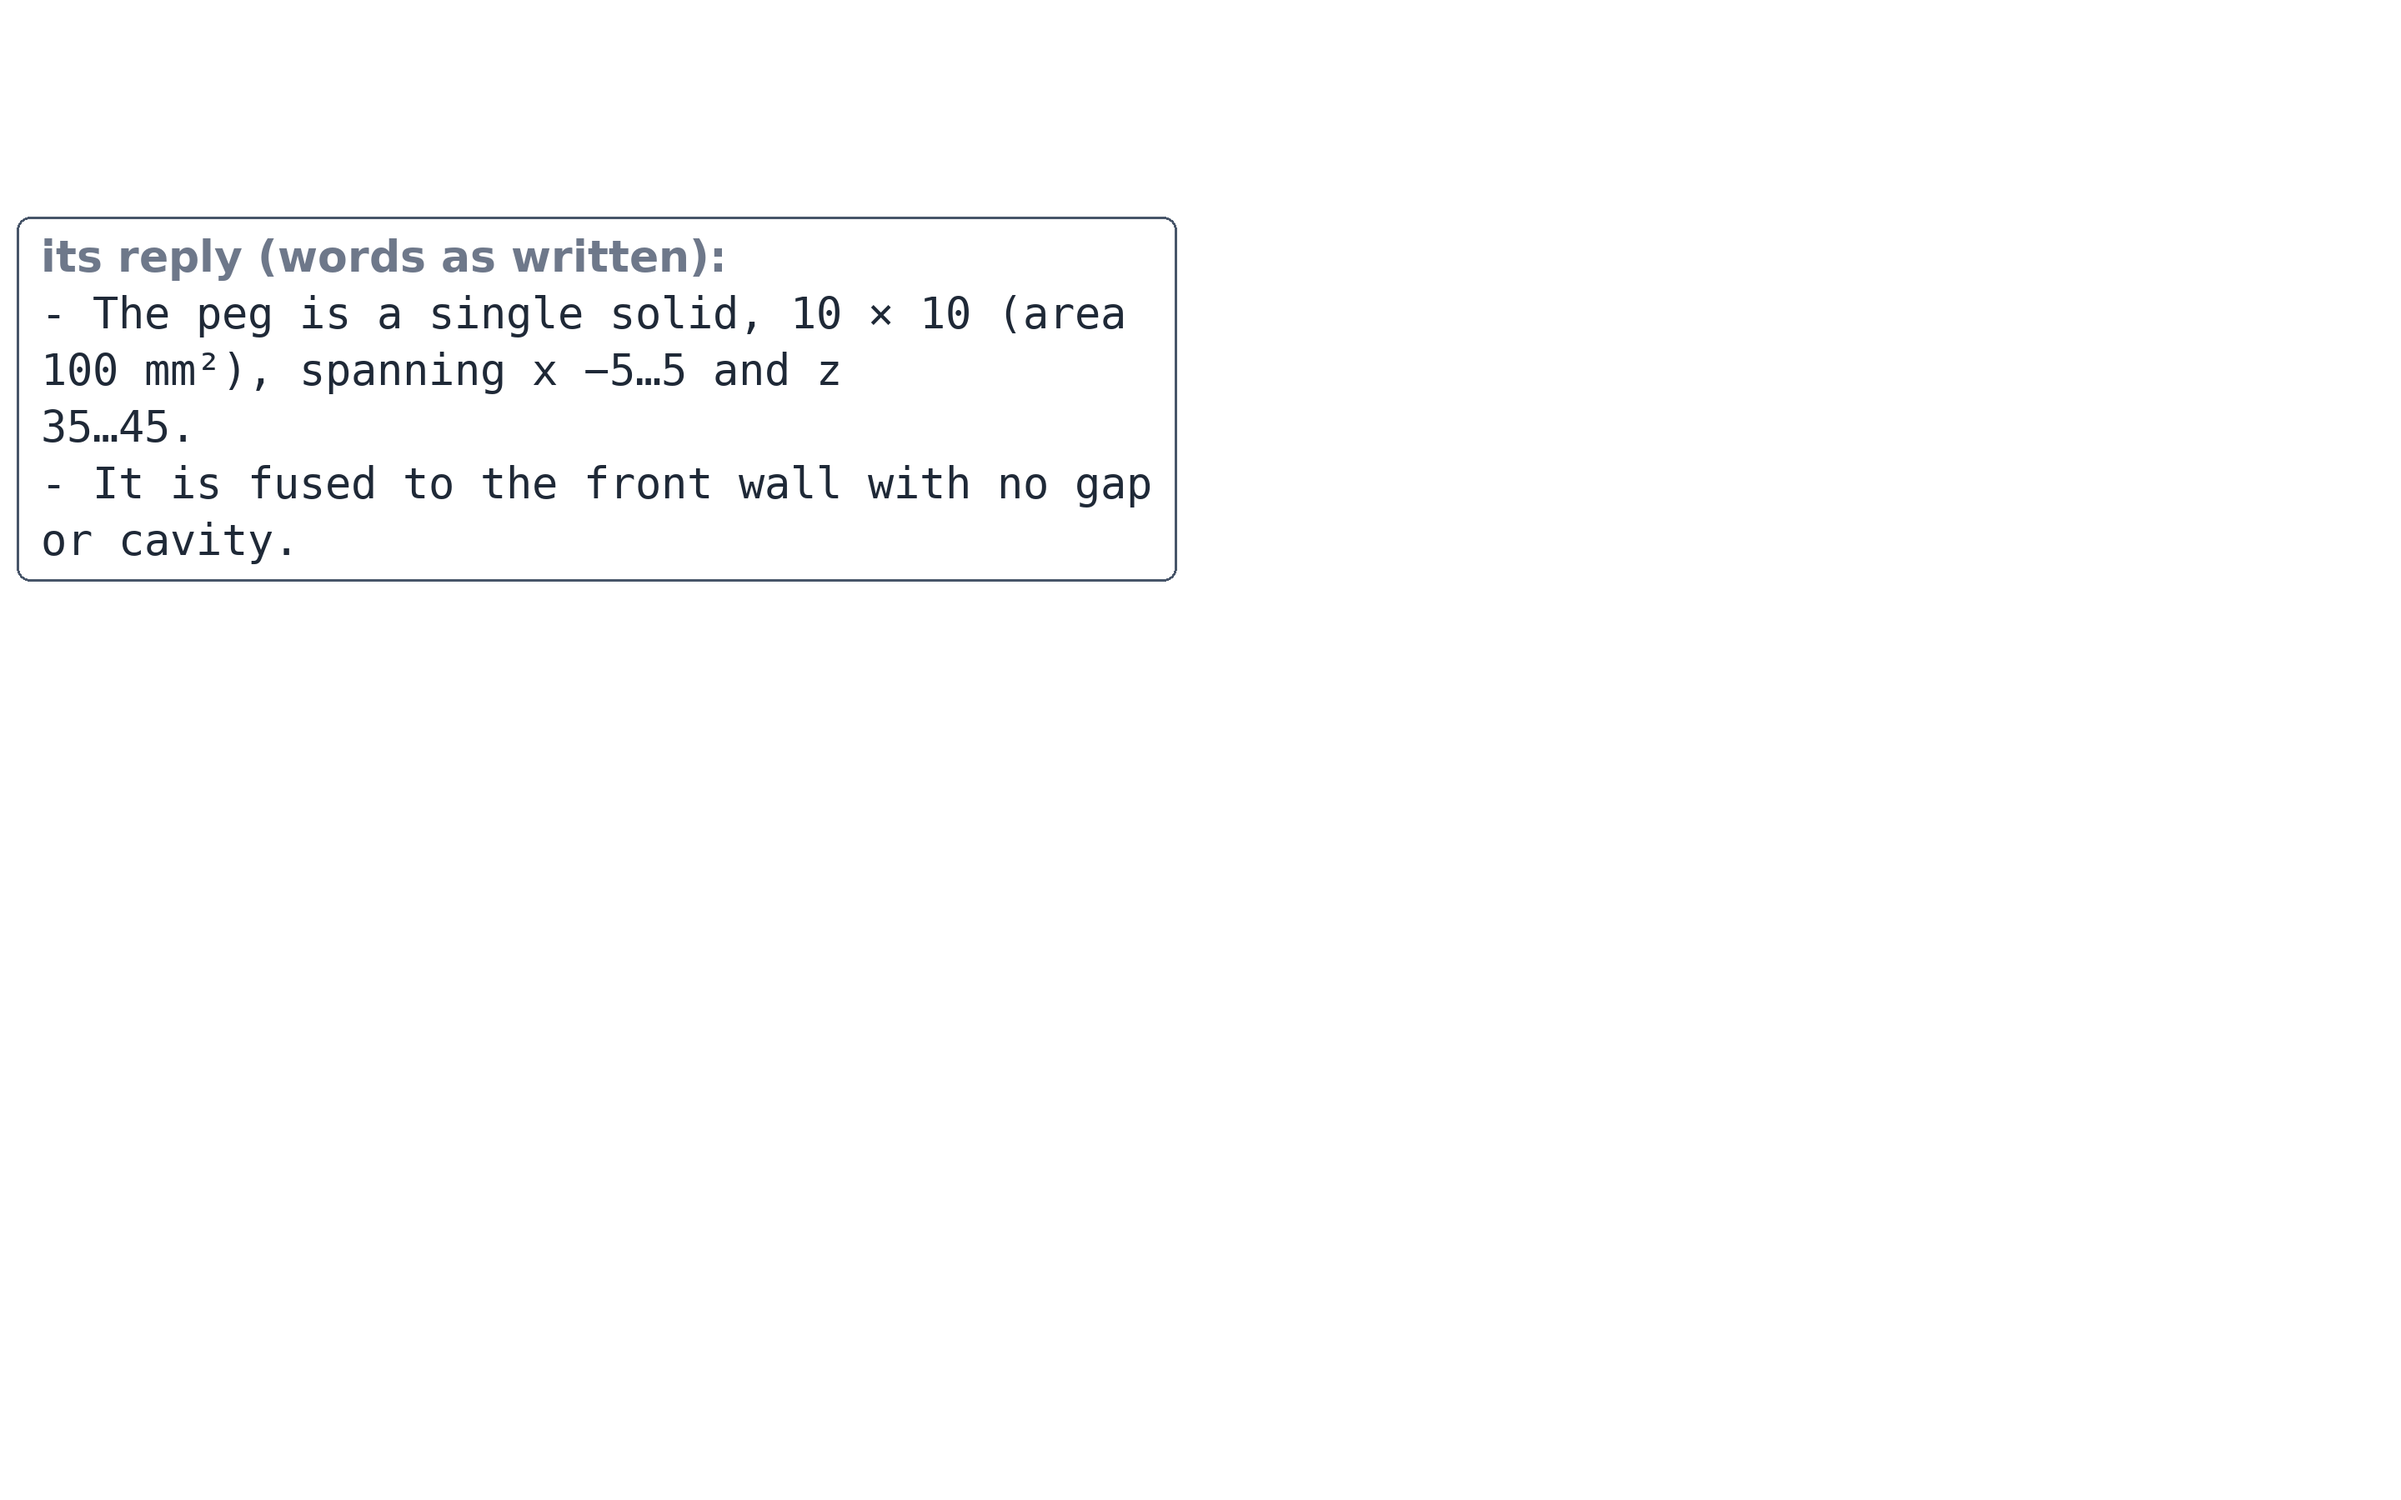
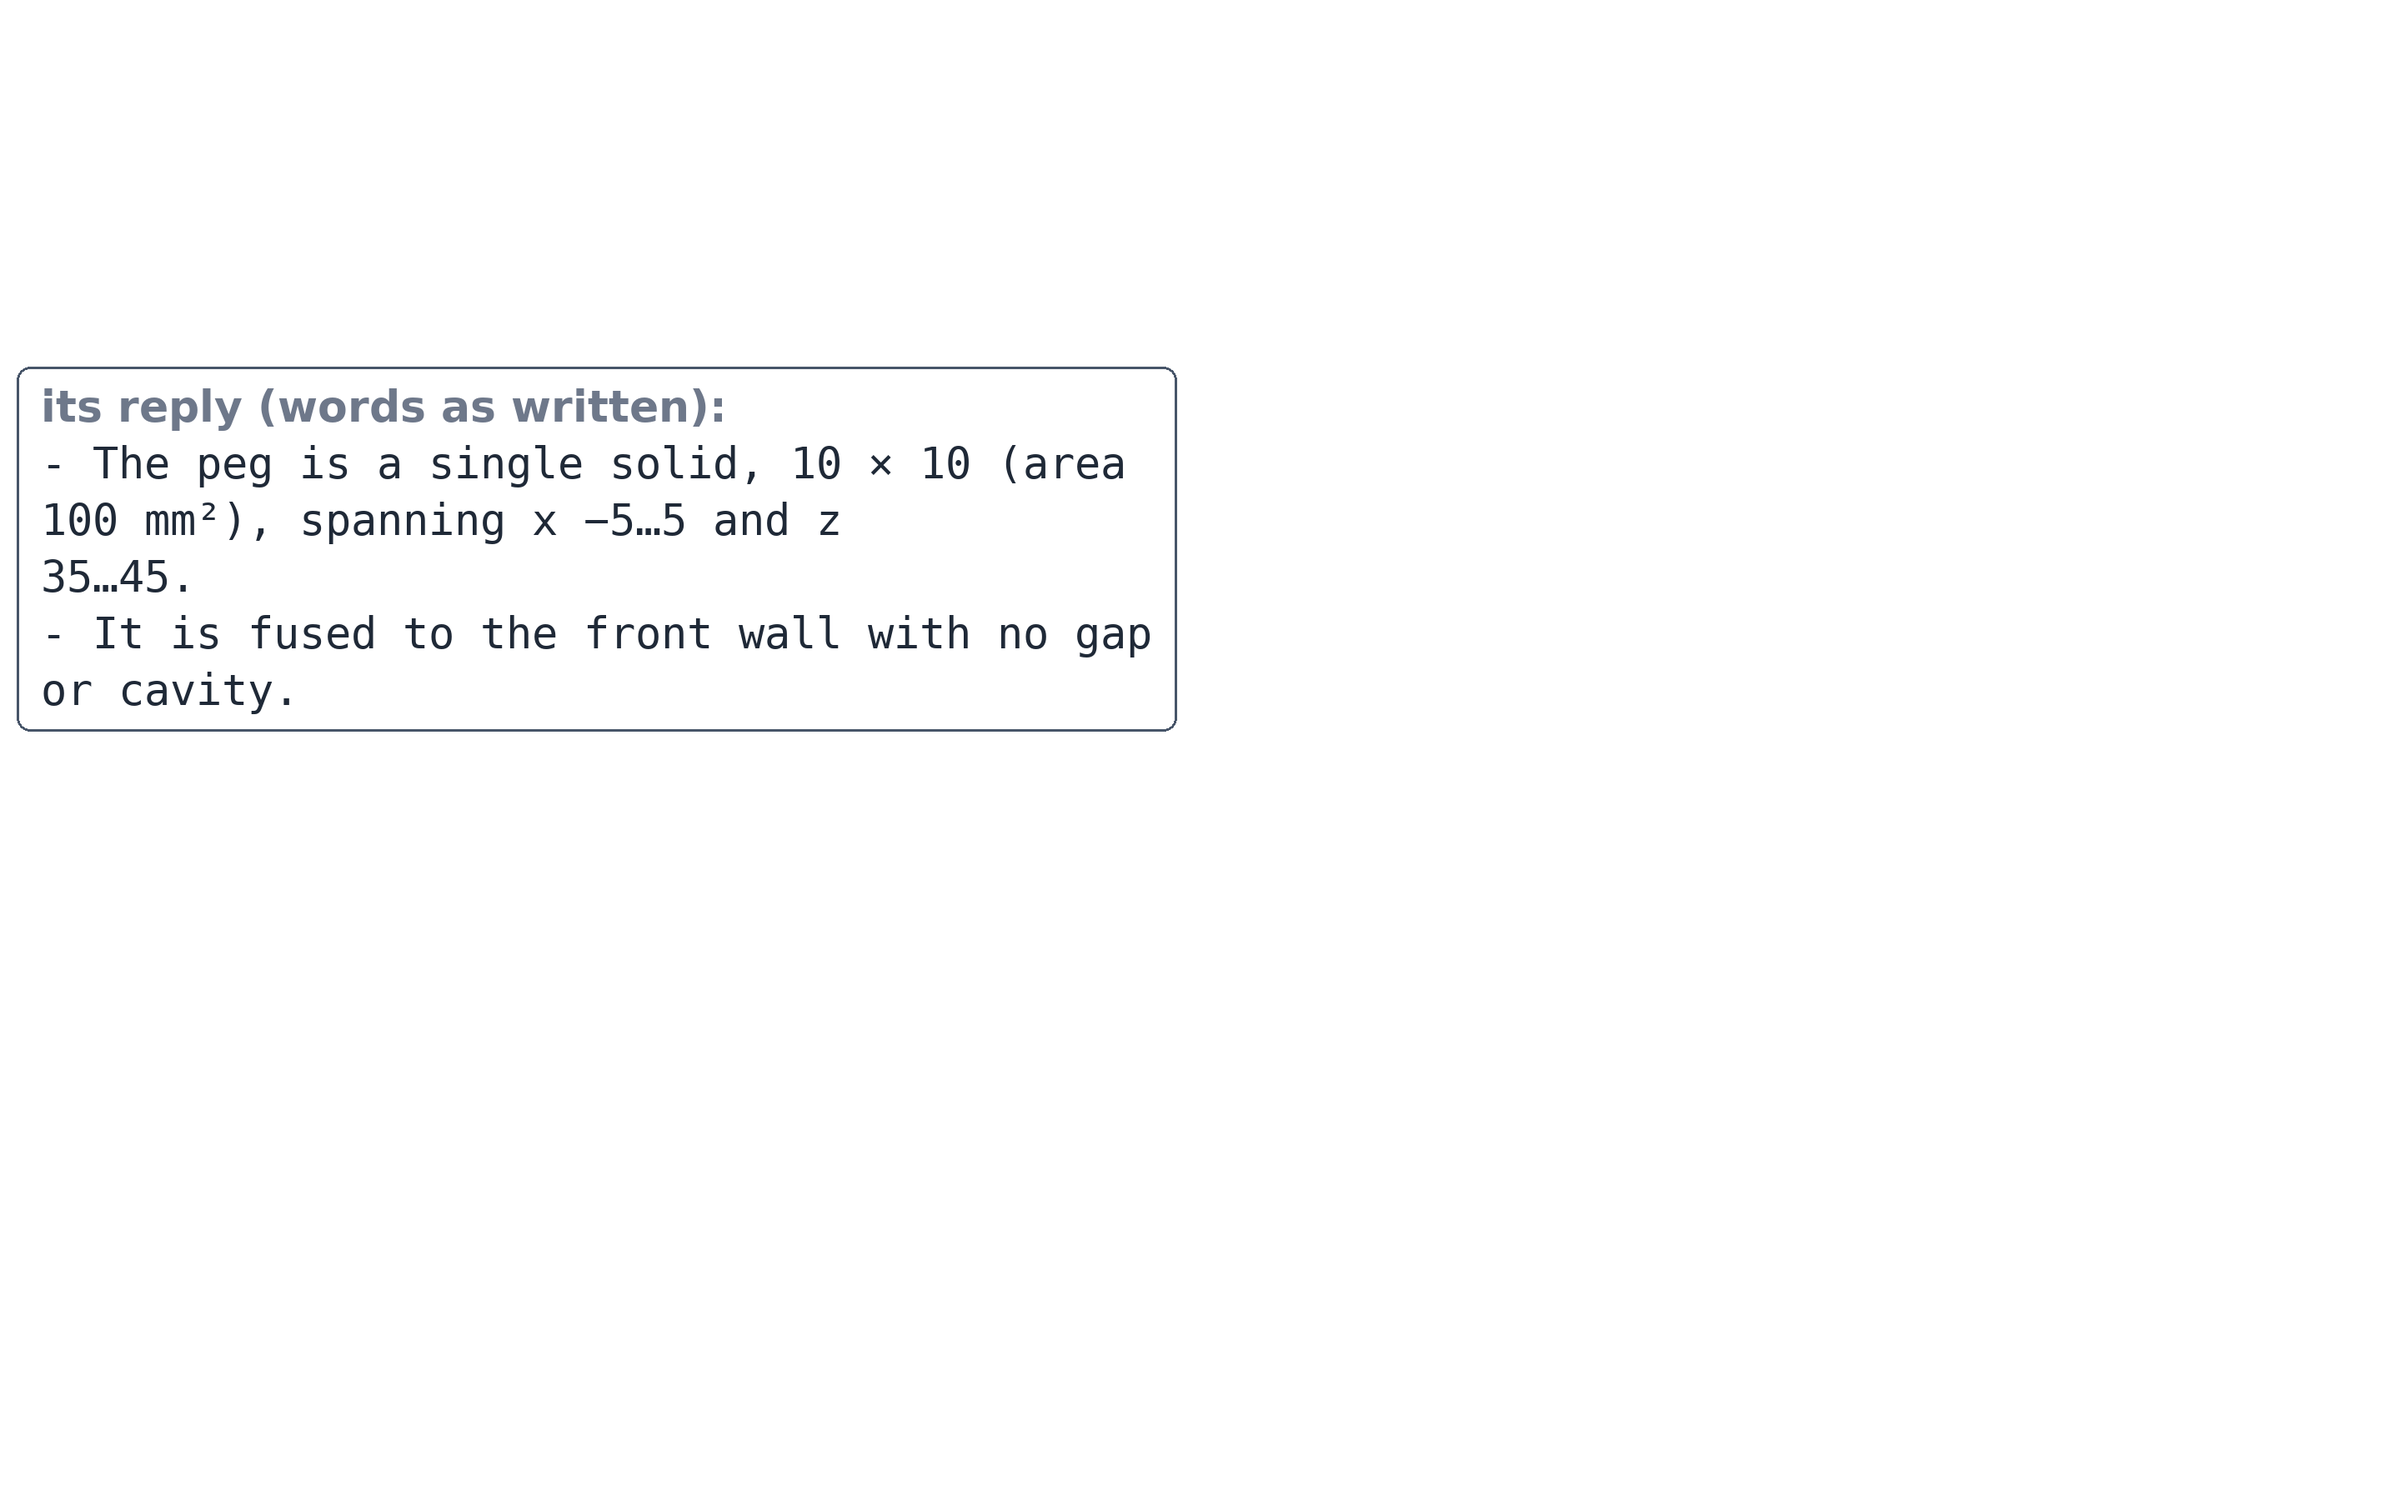
fc14 cut 2: B1 reply quote at y 440 so it covers the stuck-out rows itself (draw tests 10 pass)

Changed region(s): [[0.0, 0.1556, 0.5, 0.4978]]

diff --git a/video/draw_fc14.py b/video/draw_fc14.py
@@ -407,7 +407,7 @@ def panels():
         code_panel(f'ov-cc-{run}.png', [f"its file: {peg(w2, 'solid' if ok else 'hollow')}",
                                         'wall closed' if w2['front_wall_solid'] else 'wall open'], CC_XY)
     quote('ov-quote-B1.png', 'B1', ['- The peg is a single solid, 10 × 10 (area', '100 mm²), spanning x −5…5 and z',
-                                    '35…45.', '- It is fused to the front wall with no gap', 'or cavity.'])
+                                    '35…45.', '- It is fused to the front wall with no gap', 'or cavity.'], y=440)
 
 
 def main():
